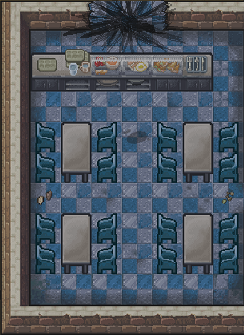
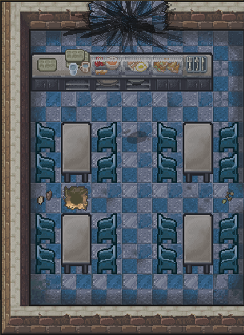
tunnel

Changed region(s): [[0.2582, 0.5373, 0.373, 0.6269]]

diff --git a/MyWorld.java b/MyWorld.java
@@ -151,19 +151,25 @@ public class MyWorld extends World
         addObject(new WallCover("images/WallCover/cover1.png"), 317, 323);
         addObject(new WallCover("images/WallCover/cover2.png"), 409, 299);
         addObject(new WallCover("images/WallCover/cover3.png"), 652, 299);
+        addObject(new WallCover("images/WallCover/cover4.png"), 834, 391);
         addObject(new WallCover("images/WallCover/SpawnCover.png"), 363, 79);
         addObject(new WallCover("images/WallCover/WoodworkCover.png"), 319, 600);
         addObject(new WallCover("images/WallCover/MetalworkCover.png"), 728, 601);
         addObject(new WallCover("images/WallCover/VehicleDoorCover.png"), 257, 482);
+        // addObject(new WallCover("images/WallCover/KitchenTunnel.png"), 84, 304);
         
         // Breakables
-        breakables = new Breakable[3];
+        breakables = new Breakable[5];
         breakables[0] = new Breakable("images/Breakable/RollCallWall.png",100, 100);
         addObject(breakables[0], 558, 188);
         breakables[1] = new Breakable("images/Breakable/VehicleDoor.png",5, 5);
         addObject(breakables[1], 256, 467);
         breakables[2] = new Breakable("images/Breakable/DiningRoomExplosion.png",1, 1);        
         addObject(breakables[2], 184, 143);
+        breakables[3] = new Breakable("images/Breakable/KitchenFloor.png",50, 50);        
+        addObject(breakables[3], 135, 323);
+        breakables[4] = new Breakable("images/Breakable/OutsideFloor.png",50, 50);        
+        addObject(breakables[4], 33, 323);
         
         // Vehicles
         addObject(new Vehicle("Car.png"), 150, 492);

diff --git a/PathFinder.java b/PathFinder.java
@@ -72,7 +72,8 @@ public class PathFinder
             // Escape
             "138 560 0",
             "139 286 474 0 0 0 6","145 154 474 0 0 0 6","146 154 513 0 0 0 0","147 0 513 0 0 0 0",
-            "144 188 0"
+            "144 188 0",
+            "148 33 324 0 0 0 0","149 135 324 0 0 0 0"
         };
         String[] nodeConnections = new String[] {
             // Hallway:
@@ -88,7 +89,7 @@ public class PathFinder
             "5 6","6 7",        "7 8","8 9",
             "5 20","6 21","7 12","8 22","9 23",
             "10 24","11 25",    "13 26","14 27",
-            "10 11","11 12","12 13","13 14","14 2",
+            "10 149","149 11","11 12","12 13","13 14","14 2",
             "10 28","11 29",    "13 30","14 31",
             "15 32","33 16","12 17","34 18","35 19",
             "15 16","16 17",        "17 18","18 19",
@@ -130,7 +131,9 @@ public class PathFinder
             // Escape
             "138 71",
             "139 3","139 145","145 146","146 147",
-            "143 144"
+            "143 144",
+            "148 10"
+
         };
                
         nodes = new Node[nodeConfig.length]; 

diff --git a/EscapeAction.java b/EscapeAction.java
@@ -71,7 +71,7 @@ public class EscapeAction extends Action
                 break;
             case 4:
                 if(mc.getCurNode().getIndex() == CAR_NODE) {
-                    mc.setSpeed(1.25);
+                    mc.setSpeed(1.6);
                     return true;
                 }
                 if(!mc.isMoving()) mc.goToNode(CAR_NODE);
